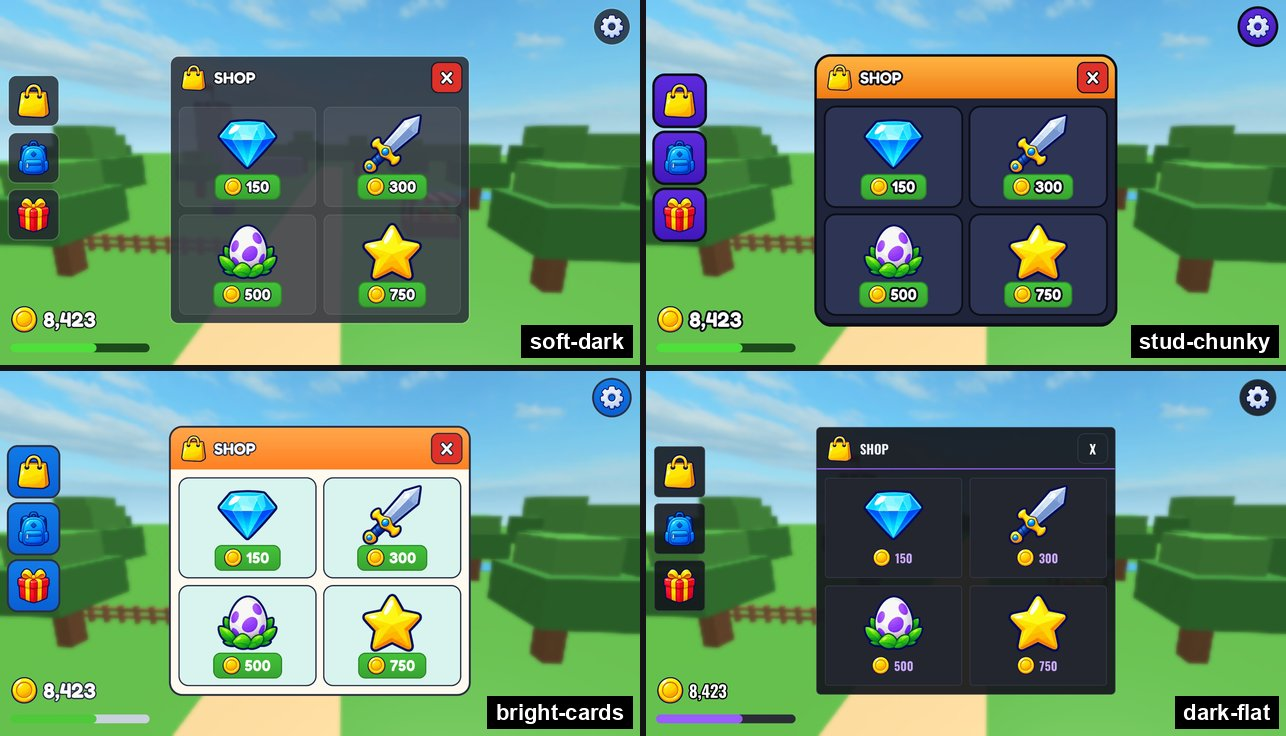
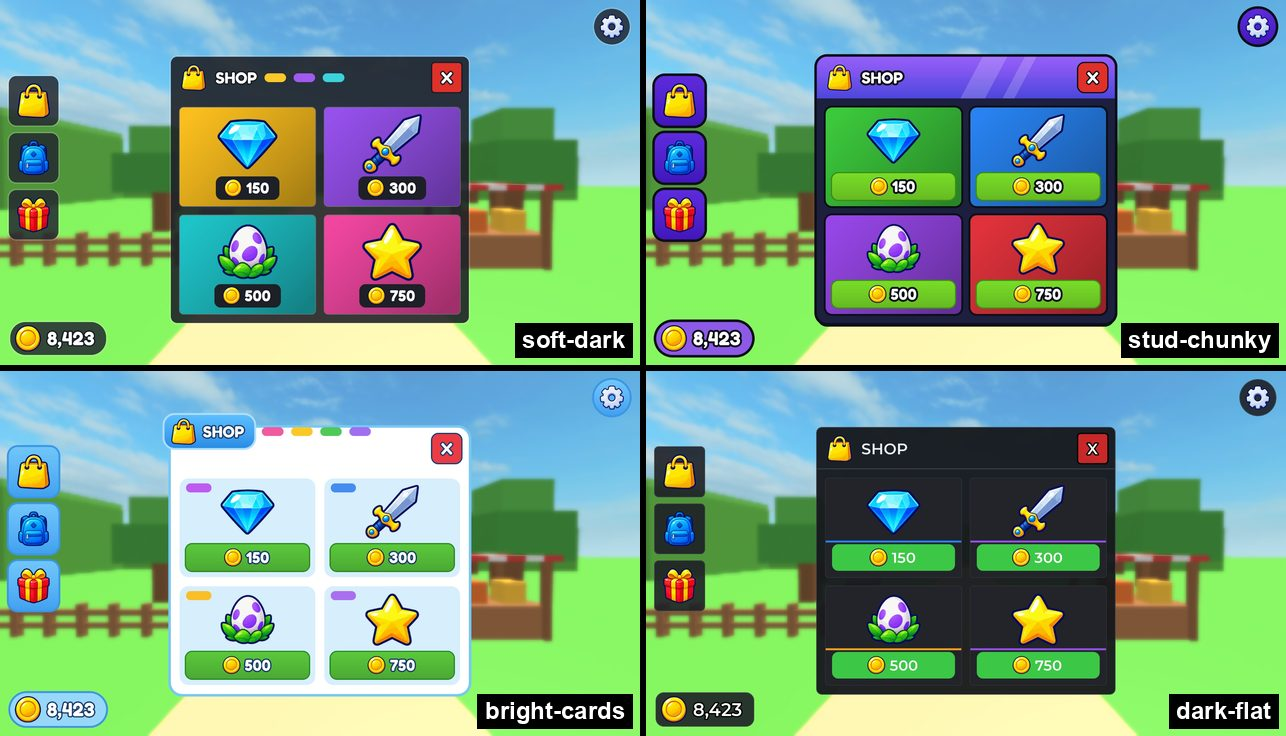
feat: Studio UI mockup presets match the new style cards
- ui_style_mock.luau: per-item rarity colors (fill, line or tag), tab
  header with pill chips, header sheen, wide price buttons, currency
  pill; presets retuned to each card; XP bar removed.
- New studio-mock.jpg from the four presets in Studio (1309x747); a 3D
  model in a card still works and HttpEnabled is restored.

Claude-Session: https://claude.ai/code/session_01BvePZp3AdLPFCszEPv6tjQ

diff --git a/plugins/roblox-skills/skills/roblox-game-pipeline/assets/ui-styles/README.md b/plugins/roblox-skills/skills/roblox-game-pipeline/assets/ui-styles/README.md
@@ -11,7 +11,7 @@ Evidence: the live Explore API charts on 2026-11-03 (top-playing-now, top-trendi
 | 3 | Bright cartoon cards | `bright-cards.jpg` | White panel with a light blue outline, a colored tab label on the top-left corner, pill tab chips, light blue item cards with rarity pill tags, glossy green buy buttons | Pet collecting, kid games, tap games, unit shops | Arm Wrestle Simulator, Toilet Tower Defense, Pet Simulator 99, Tap Simulator | Simulator or Cozy row |
 | 4 | Dark flat compact | `dark-flat.jpg` | Near-black slate, 8 px corners, 1 px gray border, small uppercase title, dark tiles with a thin rarity line, one accent color for buttons, no gloss | Shooters, battlegrounds, survival, evolution, RPG, tower defense | Bug Evolution, Tower Defense Simulator, Sniper Arena, Rivals, Blox Fruits | Anime/battlegrounds or Sci-fi row |
 
-`studio-mock.jpg`: the four styles built as a real ScreenGui in Studio by `scripts/ui_style_mock.luau` with the bundled icons, over a part-built world. Its `PRESETS` follow the first version of the cards (one card color, no rarity colors); match `override` to the card the user picked.
+`studio-mock.jpg`: the four styles built as a real ScreenGui in Studio by `scripts/ui_style_mock.luau` with the bundled icons, over a part-built world. Each preset follows its card: a color per item card (`rarity`, drawn as fill, line or tag), a tab header (`headerTab`), pill chips (`pills`), wide price buttons (`chipWide`).
 
 Live references: `python3 -I <skill dir>/scripts/ui_refs.py <scratch dir> "Game A" "Game B" --query "shop inventory"` grabs frames from each game's newest gameplay video (last 90 days) and tiles them into `sheet.jpg`. Use it when the user names a game whose UI they like, or to refresh the "Seen in" column. The frames are other games' art: show them, never commit them.
 
